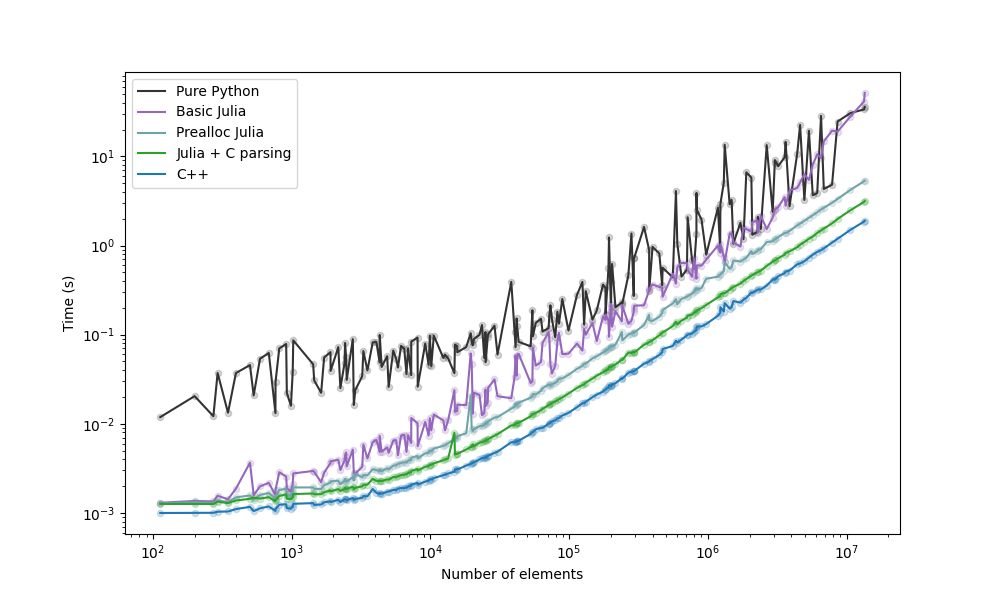
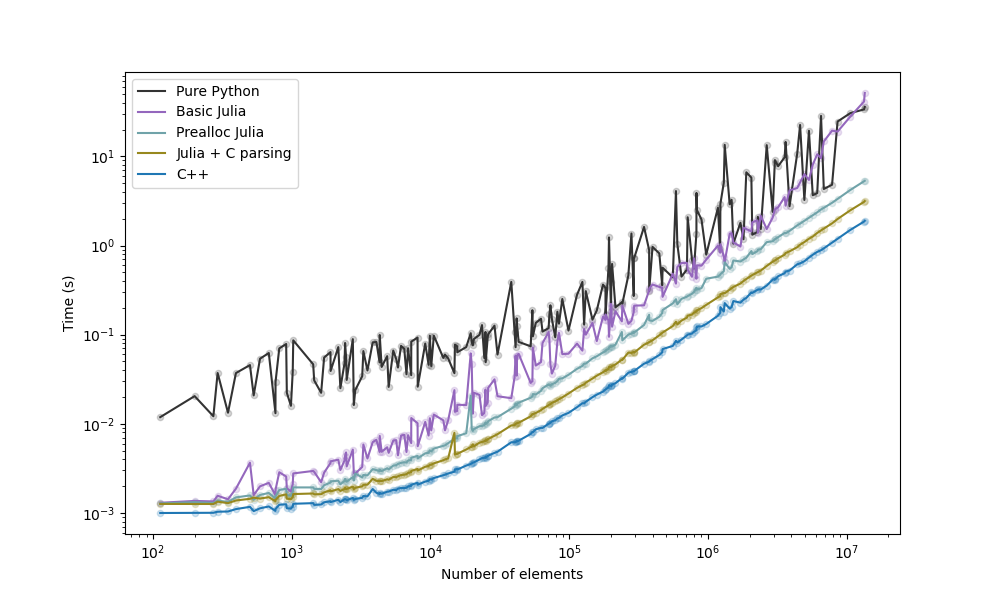
Update images - same dataset

diff --git a/post1/forwarddiff.py b/post1/forwarddiff.py
@@ -27,7 +27,7 @@ def taylor(x, a):
         Main.g2(a) * (x - a)**2 / 2 + \
         Main.g3(a) * (x - a)**3 / 6
 
-plt.figure()
+plt.figure(figsize=(10,6))
 plt.plot(domain, image)
 plt.scatter([a], [Main.g(a)], color='red')
 plt.plot(domain, taylor(domain, a), color='red')

diff --git a/post3/src/analysis.py b/post3/src/analysis.py
@@ -34,7 +34,7 @@ spc_args = {
     },
     'julia_c': {
         'label': 'Julia + C parsing',
-        'color': '#2ca02c',
+        'color': '#97881e',
     },
     'julia_basic': {
         'label': 'Basic Julia',
